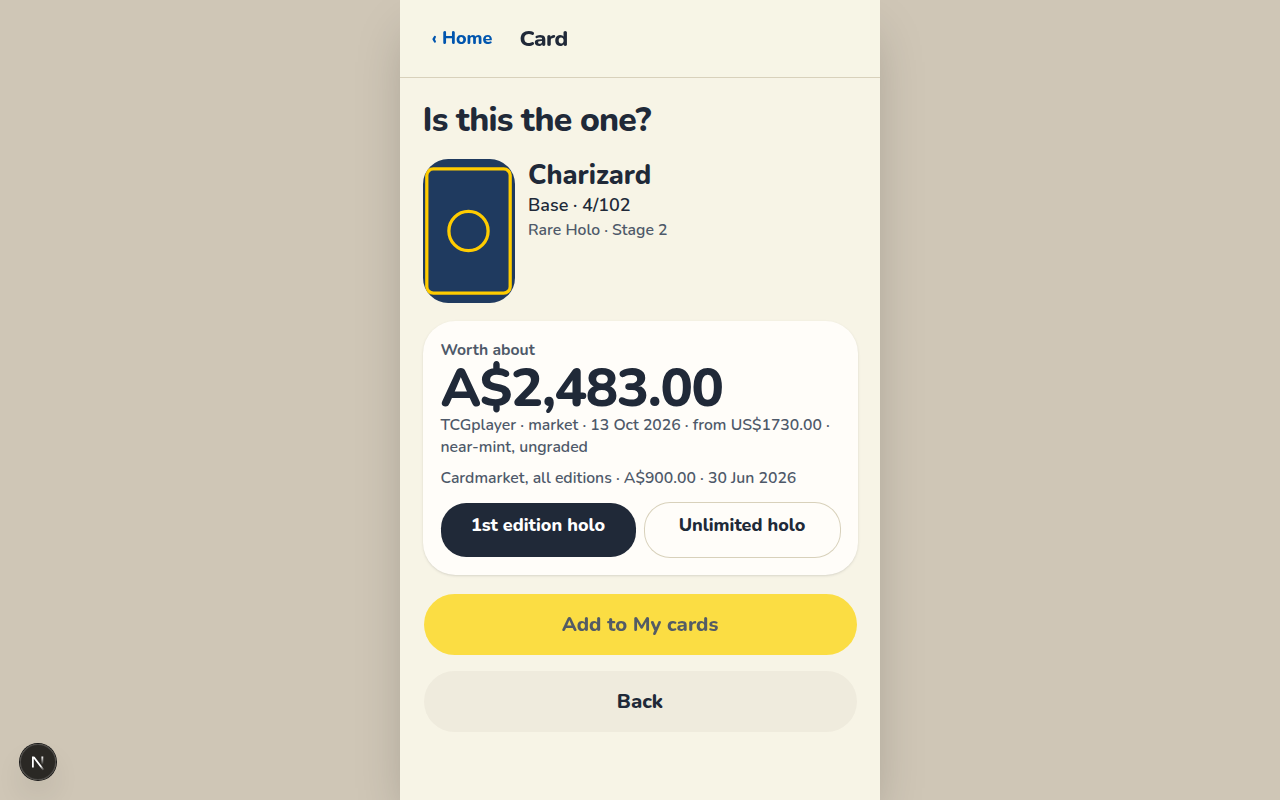
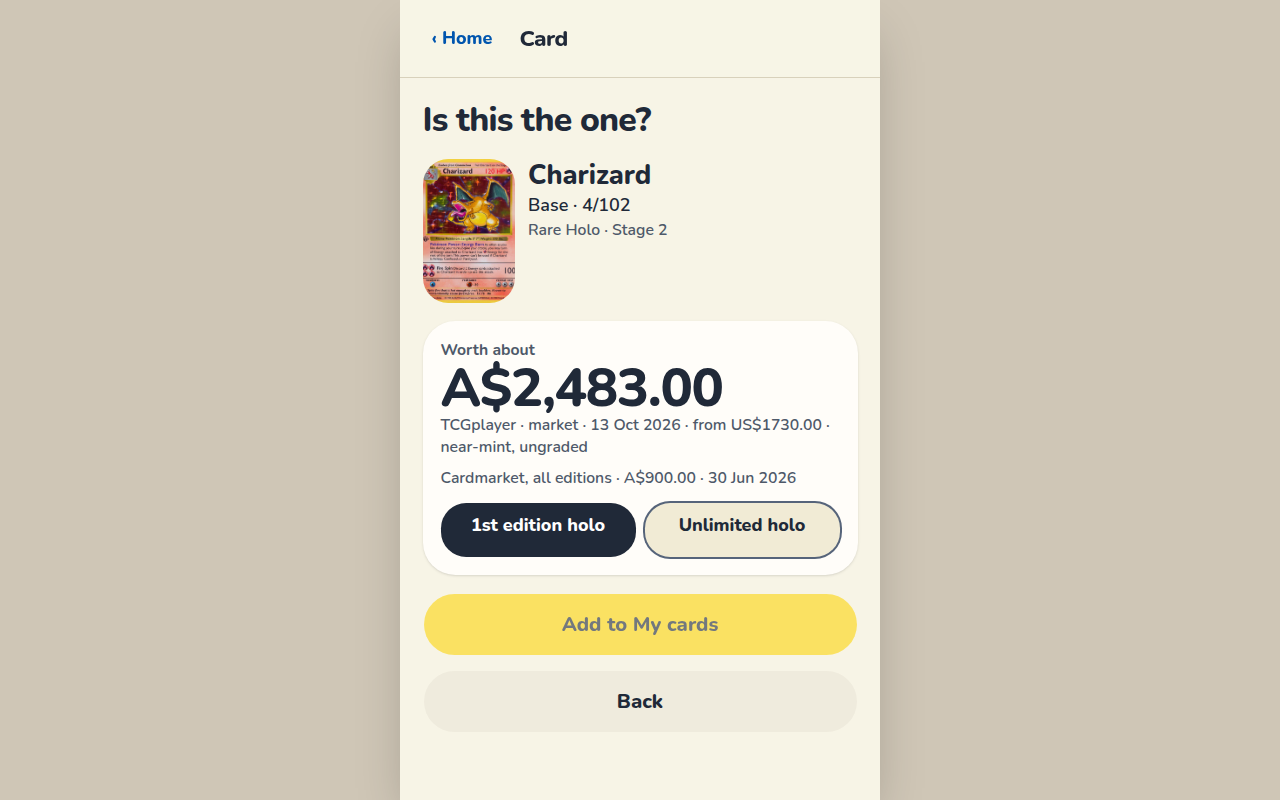
fix(ui): meet the recheck on contrast, focus, and an empty list
The camera hint sits on a dark pill, edition radios show a focus outline, and My cards drops the total once the last card is gone. A failed read waits 1.5 seconds before auto-snap. The app typecheck skips the separate worker package so the production build can finish.

Changed region(s): [[0.3125, 0.625, 0.6875, 0.8438], [0.3125, 0.1875, 0.4062, 0.4062], [0.0, 0.9375, 0.0625, 0.9688]]

diff --git a/components/scanner.tsx b/components/scanner.tsx
@@ -4,7 +4,7 @@ import { useCallback, useEffect, useRef, useState, type ChangeEvent } from "reac
 import Link from "next/link";
 import { Button, buttonVariants } from "@/components/ui/button";
 import { CardMatch } from "@/components/card-match";
-import { autoSnapReady, frameSteady, holdProgress, meanAbsDiff, SNAP_COOLDOWN_MS } from "@/lib/frame";
+import { autoSnapReady, frameSteady, holdProgress, meanAbsDiff, snapCooldownUntil } from "@/lib/frame";
 import { formatAud } from "@/lib/format";
 import type { PricedCard } from "@/lib/types";
 import { cn } from "cn";
@@ -116,6 +116,7 @@ export function Scanner() {
       setPhase({ kind: "confirm", result: payload });
     } catch (caught) {
       if (caught instanceof Error && caught.name === "AbortError") return;
+      cooldownUntil.current = snapCooldownUntil(Date.now(), "failed");
       const message = caught instanceof Error ? caught.message : "";
       setBanner(
         message === "Failed to fetch"
@@ -247,9 +248,8 @@ export function Scanner() {
           numbers={phase.result.numbers}
           againLabel="Back to camera"
           onAgain={() => {
-            if (phase.result.candidates.length === 0) {
-              cooldownUntil.current = Date.now() + SNAP_COOLDOWN_MS;
-            }
+            const pause = phase.result.candidates.length === 0 ? "no-match" : "cancel";
+            cooldownUntil.current = snapCooldownUntil(Date.now(), pause);
             setPhase({ kind: "camera" });
           }}
           onAdded={(item) => {
@@ -315,7 +315,7 @@ export function Scanner() {
       </div>
       <Link
         href="/"
-        className="absolute right-5 top-[max(0.75rem,env(safe-area-inset-top))] z-10 font-extrabold"
+        className="absolute right-5 top-[max(0.75rem,env(safe-area-inset-top))] z-10 inline-flex min-h-[44px] min-w-[44px] items-center justify-center px-2 font-extrabold"
         data-testid="scan-done"
       >
         Done{tray.length > 0 ? ` (${tray.length})` : ""}
@@ -325,8 +325,10 @@ export function Scanner() {
           {banner}
         </p>
       ) : null}
-      <p className="absolute inset-x-5 bottom-36 text-center text-base font-extrabold">
-        Hold steady. The photo is taken when the card stops moving.
+      <p className="absolute inset-x-5 bottom-36 flex justify-center">
+        <span className="max-w-sm rounded-full bg-black/80 px-4 py-2 text-center text-base font-extrabold text-white">
+          Hold steady. The photo is taken when the card stops moving.
+        </span>
       </p>
       {latest ? (
         <div

diff --git a/components/collection-screen.tsx b/components/collection-screen.tsx
@@ -73,6 +73,7 @@ export function CollectionScreen() {
     const result = removeItem(items, item.cardId, item.variantKey);
     update(result.items);
     setUndo(result.removed);
+    if (result.items.length === 0) setNote(null);
   }
 
   function restore() {
@@ -110,9 +111,20 @@ export function CollectionScreen() {
     return right - left;
   });
 
+  const empty = ready && items.length === 0;
+
   return (
     <div className="flex min-h-dvh flex-col">
       <TopBar title="My cards" />
+      {empty ? (
+        <div className="flex flex-col gap-4 px-5 py-5">
+          <p className="text-lg">No cards yet. Scan one, then tap Add to My cards.</p>
+          <Link href="/scan" className={cn(buttonVariants({ size: "xl" }), "w-full")}>
+            Scan a card
+          </Link>
+        </div>
+      ) : (
+        <>
       <div className="px-5 py-5">
         <p className="text-base font-bold text-muted-foreground">Together they&apos;re worth</p>
         <p className="text-5xl font-extrabold tracking-tight" data-testid="collection-total">
@@ -129,15 +141,6 @@ export function CollectionScreen() {
           ) : null}
         </div>
       </div>
-
-      {ready && items.length === 0 ? (
-        <div className="flex flex-col gap-4 px-5">
-          <p className="text-lg">No cards yet. Scan one, then tap Add to My cards.</p>
-          <Link href="/scan" className={cn(buttonVariants({ size: "xl" }), "w-full")}>
-            Scan a card
-          </Link>
-        </div>
-      ) : (
         <ul className="flex flex-col gap-3 px-5 pb-28">
           {rows.map((item) => (
             <li key={`${item.cardId}:${item.variantKey}`} className="rounded-2xl bg-card p-3 shadow-sm ring-1 ring-border">
@@ -204,6 +207,7 @@ export function CollectionScreen() {
             </li>
           ))}
         </ul>
+        </>
       )}
 
       {undo ? (

diff --git a/tests/frame.test.ts b/tests/frame.test.ts
@@ -1,5 +1,5 @@
 import { describe, expect, it } from "vitest";
-import { autoSnapReady, frameSteady, holdProgress, meanAbsDiff, SNAP_COOLDOWN_MS } from "@/lib/frame";
+import { autoSnapReady, frameSteady, holdProgress, meanAbsDiff, SNAP_COOLDOWN_MS, snapCooldownUntil } from "@/lib/frame";
 
 describe("frame steadiness", () => {
   it("fires after a move and then a hold", () => {
@@ -19,10 +19,14 @@ describe("frame steadiness", () => {
     expect(holdProgress([12, 0.4, 0.3, 0.2])).toBe(1);
   });
 
-  it("waits a second and a half after a no-match", () => {
+  it("waits a second and a half after a no-match or a failed read", () => {
     expect(SNAP_COOLDOWN_MS).toBe(1500);
     expect(autoSnapReady(1000, 2500)).toBe(false);
     expect(autoSnapReady(2500, 2500)).toBe(true);
+    expect(snapCooldownUntil(1000, "no-match")).toBe(2500);
+    expect(snapCooldownUntil(1000, "failed")).toBe(2500);
+    expect(snapCooldownUntil(1000, "cancel")).toBe(1000);
+    expect(snapCooldownUntil(1000, "added")).toBe(1000);
   });
 
   it("measures how much the sampled pixels changed", () => {

diff --git a/components/card-match.tsx b/components/card-match.tsx
@@ -246,8 +246,8 @@ export function CardMatch({
                   <label
                     key={item.variantKey}
                     className={cn(
-                      "min-h-12 flex-1 cursor-pointer rounded-xl px-3 py-2 text-center text-base font-extrabold",
-                      pressed ? "bg-ink text-white" : "bg-sand text-foreground ring-1 ring-border",
+                      "min-h-12 flex-1 cursor-pointer rounded-xl px-3 py-2 text-center text-base font-extrabold has-[:focus-visible]:outline-2 has-[:focus-visible]:outline-solid has-[:focus-visible]:outline-offset-2 has-[:focus-visible]:outline-sea",
+                      pressed ? "bg-ink text-white" : "bg-sand text-foreground ring-2 ring-sand-edge",
                     )}
                   >
                     <input

diff --git a/lib/frame.ts b/lib/frame.ts
@@ -26,6 +26,13 @@ export function autoSnapReady(now: number, blockedUntil: number): boolean {
   return now >= blockedUntil;
 }
 
+export type SnapPause = "no-match" | "failed" | "cancel" | "added";
+
+export function snapCooldownUntil(now: number, pause: SnapPause): number {
+  if (pause === "no-match" || pause === "failed") return now + SNAP_COOLDOWN_MS;
+  return now;
+}
+
 export function meanAbsDiff(previous: Uint8ClampedArray, next: Uint8ClampedArray): number {
   const samples = Math.floor(Math.min(previous.length, next.length) / 4);
   if (samples === 0) return 0;

diff --git a/app/globals.css b/app/globals.css
@@ -11,6 +11,8 @@
   --color-sun: oklch(0.88 0.18 95);
   --color-sea: oklch(0.46 0.16 255);
   --color-ink: oklch(0.28 0.03 260);
+  --color-sand: oklch(0.94 0.03 95);
+  --color-sand-edge: oklch(0.5 0.04 260);
   --font-mono: var(--font-geist-mono);
   --font-heading: var(--font-sans);
   --color-sidebar-ring: var(--sidebar-ring);
